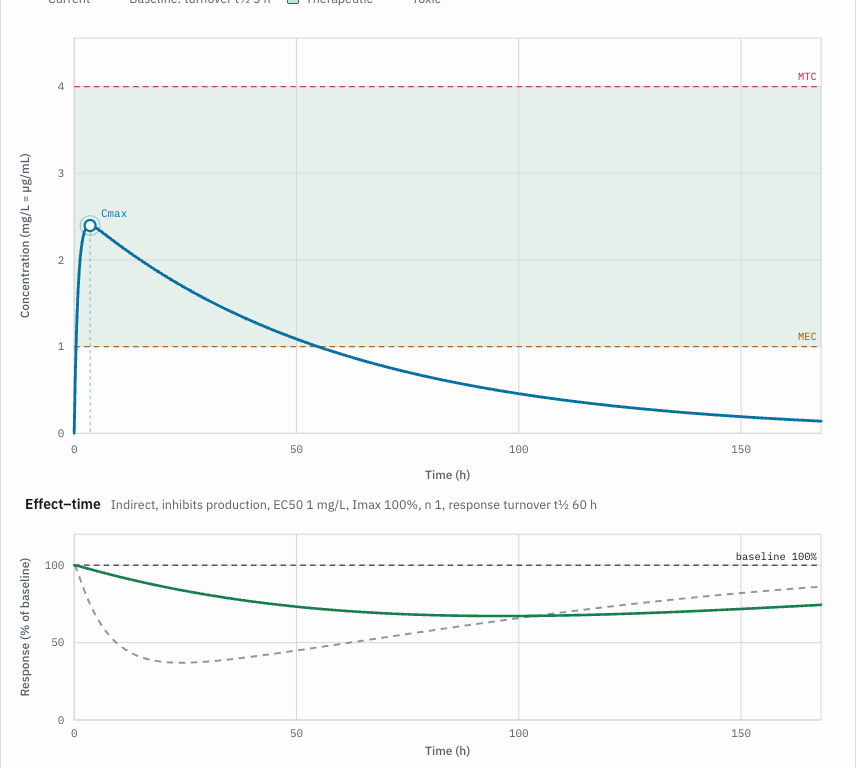
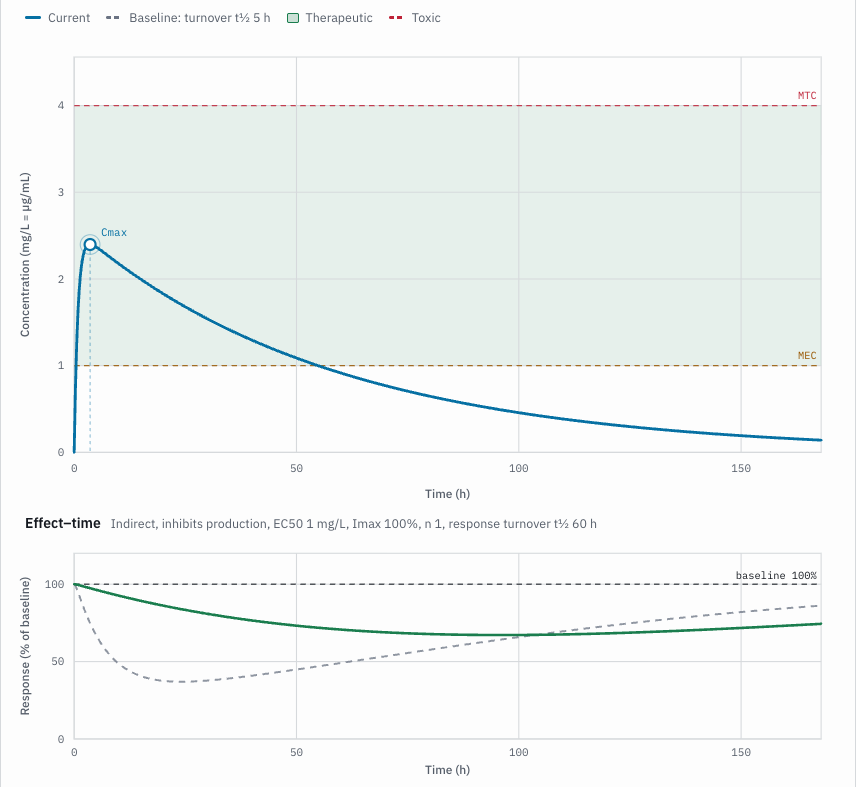
2.9.0: the glossary and the README catch up with 2.4-2.8
- Glossary 71: Terminal half-life, Post-distribution peak.
- README: images of the rebound after dialysis and of the effect's population
  band; every chart image retaken with its legend whole.
- 386 tests in 22 files.

diff --git a/index.html b/index.html
@@ -53,7 +53,7 @@
 <meta name="twitter:image" content="https://saifmaati.github.io/dose-curve/og-image.png">
 <script type="application/ld+json">
 {"@context":"https://schema.org","@type":"WebApplication","name":"DoseCurve","url":"https://saifmaati.github.io/dose-curve/",
- "description":"Interactive pharmacokinetics and PK/PD simulator for pharmacy education: regimens and custom schedules, a clinical patient with Cockcroft–Gault creatinine clearance, saturable kinetics, population variability, lessons, practice problems and graded clinical cases, validated against an independent solver.","softwareVersion":"2.8.0",
+ "description":"Interactive pharmacokinetics and PK/PD simulator for pharmacy education: regimens and custom schedules, a clinical patient with Cockcroft–Gault creatinine clearance, saturable kinetics, population variability, lessons, practice problems and graded clinical cases, validated against an independent solver.","softwareVersion":"2.9.0",
  "applicationCategory":"EducationalApplication","operatingSystem":"Any (web browser)","isAccessibleForFree":true,
  "offers":{"@type":"Offer","price":"0","priceCurrency":"USD"},"educationalUse":"learning pharmacokinetics","audience":{"@type":"EducationalAudience","educationalRole":"student"}}
 </script>
@@ -1801,7 +1801,7 @@
         <button class="foot-keys" id="keysFoot" aria-haspopup="dialog">Keyboard shortcuts</button>
         <a href="https://github.com/Saifmaati/dose-curve/issues/new?template=feedback.md" target="_blank" rel="noopener">Send feedback</a>
         <a href="https://github.com/Saifmaati/dose-curve/issues/new?template=bug_report.md" target="_blank" rel="noopener">Report an issue</a>
-        <span>Version 2.8.0, updated 1 October 2026</span>
+        <span>Version 2.9.0, updated 1 October 2026</span>
       </nav>
     </footer>
   </div>
@@ -4483,7 +4483,7 @@
   }));
   // The glossary under the lessons: each term with its symbol and unit, a definition, and the lesson that shows it.
   // The glossary's terms come from pk-glossary.js, loaded the first time the Lessons tab opens.
-  const GLOSS_SRC="pk-glossary.js?v=84bc063d00";
+  const GLOSS_SRC="pk-glossary.js?v=737ee5d15a";
   let glossLoading=null;
   function loadGlossary(){
     if(PK.GLOSSARY){ if(!byId("glossList").children.length) buildGlossary(); return; }

diff --git a/sw.js b/sw.js
@@ -6,11 +6,11 @@
 //   each page names them by hash, and older copies are dropped when a new one is saved.
 // - Nothing else is touched: other sites' requests and anything but GET pass straight through. No user data is
 //   stored or sent; scenarios and the library stay in the page's own storage, as before.
-const CACHE="dosecurve-v37";   // bumped at the end of every v1.0 phase, so a new release starts from a clean cache
+const CACHE="dosecurve-v38";   // bumped at the end of every v1.0 phase, so a new release starts from a clean cache
 // cases.js is named by its content hash, as index.html loads it; a test keeps the two in step
 const CORE=["./","./site.webmanifest","./favicon.svg","./favicon-32.png","./apple-touch-icon.png","./icon-192.png","./icon-512.png",
   "./cases.js?v=124759dd74",
-  "./pk-sens.js?v=b8300283e3","./pk-explain.js?v=4bbeb09405","./pk-tdm.js?v=faef16b95a","./pk-hd.js?v=adbb8a2d82","./pk-sources.js?v=6b5fbf7ff9","./pk-idr.js?v=f6002874d2","./pk-bayes.js?v=21a1045af5","./pk-lessons.js?v=a310a40fe4","./pk-practice.js?v=b7088f3efd","./pk-math.js?v=56c16f5396","./pk-glossary.js?v=84bc063d00","./pop-worker.js?v=67b2b76963","./validation.html","./educators.html","./stage.js?v=55e58173ac","./fonts/plex-sans-latin.woff2","./fonts/plex-mono-400-latin.woff2","./fonts/plex-mono-500-latin.woff2","./validation/reference-results.json?v=3e5c9bbc7c"];
+  "./pk-sens.js?v=b8300283e3","./pk-explain.js?v=4bbeb09405","./pk-tdm.js?v=faef16b95a","./pk-hd.js?v=adbb8a2d82","./pk-sources.js?v=6b5fbf7ff9","./pk-idr.js?v=f6002874d2","./pk-bayes.js?v=21a1045af5","./pk-lessons.js?v=a310a40fe4","./pk-practice.js?v=b7088f3efd","./pk-math.js?v=56c16f5396","./pk-glossary.js?v=737ee5d15a","./pop-worker.js?v=67b2b76963","./validation.html","./educators.html","./stage.js?v=55e58173ac","./fonts/plex-sans-latin.woff2","./fonts/plex-mono-400-latin.woff2","./fonts/plex-mono-500-latin.woff2","./validation/reference-results.json?v=3e5c9bbc7c"];
 const PAGE="./";   // the app page's saved copy lives under this key
 const PAGES=["validation.html"];   // other pages kept for offline use, each under its own address
 const FONT_HOSTS=["fonts.googleapis.com","fonts.gstatic.com"];

diff --git a/pk-glossary.js b/pk-glossary.js
@@ -117,6 +117,10 @@
      def:"A central volume (plasma and fast tissues) that exchanges drug with a peripheral one at k12 and k21. A bolus falls as A·e^(−αt) + B·e^(−βt): a fast distribution phase, then the slower terminal phase. Clearance and AUC are the same as with one compartment."},
     {term:"Distribution phase", sym:"t½ α", unit:"h", lesson:"twocmt",
      def:"The early, fast fall in level while drug moves from the central volume into the tissues. Levels drawn during it run higher than the terminal phase would predict."},
+    {term:"Terminal half-life", sym:"t½ β", unit:"h", lesson:"twocmt",
+     def:"The half-life of the slow, final phase of the curve, once distribution is over: ln 2 / β with two compartments. It sets how long the drug takes to reach steady state and to wash out, and it is longer than the half-life of elimination from the central compartment alone."},
+    {term:"Post-distribution peak", sym:"", unit:"", lesson:"twocmt",
+     def:"A peak level drawn once distribution is over, so the level is on its terminal slope rather than still falling fast. Under the steady-state chart, When to sample gives the time distribution is 90% complete in the model; the vancomycin guideline's two-level approach draws such a peak 1–2 hours after the infusion (Rybak et al., 2020)."},
     {term:"Time above the MIC", sym:"fT>MIC", unit:"%", lesson:"tmic",
      def:"The share of a dosing interval that the unbound level stays above the minimum inhibitory concentration. For β-lactams such as meropenem it is the measure that tracks efficacy most closely, and a longer infusion raises it without changing the AUC."},
     {term:"Sensitivity analysis", sym:"±20%", unit:"%", lesson:"cl",

diff --git a/educators.html b/educators.html
@@ -122,7 +122,7 @@
 
 <h2>Feedback</h2>
 <p>An instructor's view helps most: what would make DoseCurve more useful in your course, or a case or worksheet you would like built. Use the <a href="https://github.com/Saifmaati/dose-curve/issues/new?template=educator.md">educator form</a> on GitHub.</p>
-<p class="muted">DoseCurve 2.8.0, MIT license. <a href="https://github.com/Saifmaati/dose-curve">Source on GitHub</a>; <a href="validation.html">validation</a>.</p>
+<p class="muted">DoseCurve 2.9.0, MIT license. <a href="https://github.com/Saifmaati/dose-curve">Source on GitHub</a>; <a href="validation.html">validation</a>.</p>
 </main>
 </body>
 </html>

diff --git a/README.md b/README.md
@@ -41,6 +41,10 @@ Since 2.0 the curve also lives as a 3D ribbon on a stage behind the page, drawn 
 
 ![Gentamicin on hemodialysis: 120 mg after each 8-hour session, each session (shaded) halving the level, with the clearance on and off dialysis](docs/img/hemodialysis.png)
 
+![A two-compartment drug on dialysis: a 4-hour session (shaded) takes the level from 11.8 to 5.5 mg/L, then it rebounds to 6.3 mg/L as drug returns from the tissues](docs/img/hd-rebound.png)
+
+![Population mode with the effect charts: 200 virtual patients' levels and their effect, each as a 5th–95th percentile band; near the peaks the effect band narrows while the level band stays wide](docs/img/population-effect.png)
+
 **Explain**
 - Set a baseline, change anything, and **What changed** explains it with the model's numbers: "CrCl fell from 73 to 41 mL/min, so the clearance of a drug that is 90% renally excreted fell 38%; the half-life rose from 3.9 h to 6.2 h; the steady-state trough rose from 2.2 to 4.7 mg/L."
 - Compare scenarios A and B side by side, with "Vary only" to change one thing at a time, and 28 one-click comparisons.
@@ -55,7 +59,7 @@ Since 2.0 the curve also lives as a 3D ribbon on a stage behind the page, drawn 
 **Teach and practise**
 - **36 guided lessons** that ask for a prediction first and end with a challenge the app checks live.
 - **16 clinical cases** (gentamicin conventional, once daily, on hemodialysis, individualized from two levels and from a Bayesian estimate, vancomycin to an AUC24 target, from two measured levels and from a Bayesian estimate, meropenem, piperacillin-tazobactam and levetiracetam by their labels' renal tables, phenytoin with low albumin, digoxin, theophylline in a smoker, lithium, a late-dose question), one of them the case of the day, the same for everyone on a given date. The model grades a proposed regimen at steady state, gives rule-based hints, re-grades it rounded to the forms available, and walks through the textbook route.
-- **42 kinds of generated practice problems** in seven topics with worked solutions, printable worksheets with answer keys, "Fit the data" (including a two-compartment curve to strip by the method of residuals) and "Hit the window" exercises, and a 69-term glossary.
+- **42 kinds of generated practice problems** in seven topics with worked solutions, printable worksheets with answer keys, "Fit the data" (including a two-compartment curve to strip by the method of residuals) and "Hit the window" exercises, and a 71-term glossary.
 - **For instructors:** write a case (patient, drug, regimen choices and target) and share it as a link, checked for a solution before the link is made and marked as an unreviewed community case; put cases and worksheets in one assignment link; and verify the completion codes (HMAC-SHA256 with a class key) students make at the end. Nothing is sent anywhere.
 - Links for everything (a scenario, a lesson, a problem, a worksheet, a case, an assignment), embed code for course pages, a light theme for projectors, printable handouts, and offline use after one visit.
 
@@ -156,7 +160,7 @@ Share links carry every setting in the URL itself and are written at the lowest 
 
 See [`CITATION.cff`](CITATION.cff) (GitHub's "Cite this repository" button uses it):
 
-> Maati S. DoseCurve: an interactive pharmacokinetics and PK/PD simulator for pharmacy education. Version 2.8.0. 2026. https://github.com/Saifmaati/dose-curve
+> Maati S. DoseCurve: an interactive pharmacokinetics and PK/PD simulator for pharmacy education. Version 2.9.0. 2026. https://github.com/Saifmaati/dose-curve
 
 ## Contributing
 

diff --git a/docs/NEEDS-SAIF.md b/docs/NEEDS-SAIF.md
@@ -16,7 +16,8 @@ Merging is blocked for Claude Code by its auto-mode safety check ("Merge Without
 | 2.1.0 | https://github.com/Saifmaati/dose-curve/pull/22 | 2.2.0 | https://github.com/Saifmaati/dose-curve/pull/23 |
 | 2.3.0 | https://github.com/Saifmaati/dose-curve/pull/24 | 2.4.0 | https://github.com/Saifmaati/dose-curve/pull/25 |
 | 2.5.0 | https://github.com/Saifmaati/dose-curve/pull/26 | 2.6.0 | https://github.com/Saifmaati/dose-curve/pull/27 |
-| 2.7.0 | https://github.com/Saifmaati/dose-curve/pull/28 | 2.8.0 | the pull request from branch `v2.8.0` |
+| 2.7.0 | https://github.com/Saifmaati/dose-curve/pull/28 | 2.8.0 | https://github.com/Saifmaati/dose-curve/pull/29 |
+| 2.9.0 | the pull request from branch `v2.9.0` | | |
 
 Each one contains the ones before it. Merging them one by one, oldest first, gives each release its own merge commit to tag:
 
@@ -24,14 +25,14 @@ Each one contains the ones before it. Merging them one by one, oldest first, giv
 for n in 12 13 14 15 16 17 18 19; do /Users/saifmaati/.local/bin/gh pr merge $n --repo Saifmaati/dose-curve --merge; done
 ```
 
-Then merge 1.17.1 (#20), 2.0.0 (#21), 2.1.0 (#22), 2.2.0 (#23), 2.3.0 (#24), 2.4.0 (#25), 2.5.0 (#26), 2.6.0 (#27), 2.7.0 (#28) and 2.8.0 the same way. Each contains the ones before it, so merging only the last one also works, at the cost of one merge commit for all of them. Afterwards Claude Code tags each merge commit, checks the live site byte for byte and runs Lighthouse. To let it merge after green CI in future runs, allow `Bash(/Users/saifmaati/.local/bin/gh pr merge:*)` in `~/.claude/settings.json`.
+Then merge 1.17.1 (#20), 2.0.0 (#21), 2.1.0 (#22), 2.2.0 (#23), 2.3.0 (#24), 2.4.0 (#25), 2.5.0 (#26), 2.6.0 (#27), 2.7.0 (#28), 2.8.0 (#29) and 2.9.0 the same way. Each contains the ones before it, so merging only the last one also works, at the cost of one merge commit for all of them. Afterwards Claude Code tags each merge commit, checks the live site byte for byte and runs Lighthouse. To let it merge after green CI in future runs, allow `Bash(/Users/saifmaati/.local/bin/gh pr merge:*)` in `~/.claude/settings.json`.
 
 ## 2. Create the GitHub Releases
 
 Tags `v1.0.0` to `v1.9.0` are pushed; v1.10.0 onward are tagged as they merge. Creating the Releases is blocked for Claude Code ("Create Public Surface"), and Zenodo archives a release, not a tag. From the repository folder, oldest first, each with its CHANGELOG section as the notes:
 
 ```bash
-for v in 1.0.0 1.1.0 1.2.0 1.3.0 1.4.0 1.4.1 1.5.0 1.6.0 1.7.0 1.8.0 1.9.0 1.10.0 1.11.0 1.12.0 1.13.0 1.14.0 1.15.0 1.16.0 1.17.0 1.17.1 2.0.0 2.1.0 2.2.0 2.3.0 2.4.0 2.5.0 2.6.0 2.7.0 2.8.0; do awk -v H="## $v " 'index($0,H)==1{f=1;next} /^## /{f=0} f' CHANGELOG.md > /tmp/dc-notes-$v.md; gh release create v$v --verify-tag --title "DoseCurve $v" --notes-file /tmp/dc-notes-$v.md; done
+for v in 1.0.0 1.1.0 1.2.0 1.3.0 1.4.0 1.4.1 1.5.0 1.6.0 1.7.0 1.8.0 1.9.0 1.10.0 1.11.0 1.12.0 1.13.0 1.14.0 1.15.0 1.16.0 1.17.0 1.17.1 2.0.0 2.1.0 2.2.0 2.3.0 2.4.0 2.5.0 2.6.0 2.7.0 2.8.0 2.9.0; do awk -v H="## $v " 'index($0,H)==1{f=1;next} /^## /{f=0} f' CHANGELOG.md > /tmp/dc-notes-$v.md; gh release create v$v --verify-tag --title "DoseCurve $v" --notes-file /tmp/dc-notes-$v.md; done
 ```
 
 To let Claude Code do it in future runs, allow `Bash(/Users/saifmaati/.local/bin/gh release create:*)`.

diff --git a/CHANGELOG.md b/CHANGELOG.md
@@ -2,6 +2,15 @@
 
 What changed in DoseCurve, newest first. Every release keeps older share links working and the default scenario's numbers unchanged: Cmax 9.3 mg/L, AUC 74.2 mg·h/L, 48% of the window in range.
 
+## 2.9.0 (2026-10-01)
+
+The glossary and the README catch up with 2.4–2.8.
+
+- **Two glossary terms** (71): *Terminal half-life* (ln 2 / β, longer than the central compartment's own) and *Post-distribution peak* (drawn once distribution is over; When to sample gives the model's time, and the vancomycin guideline's two-level approach draws it 1–2 hours after the infusion, Rybak et al. 2020).
+- **README images:** two new ones, the rebound after a dialysis session and population mode's band on the effect chart. Every chart image is retaken so its legend shows whole; until now each was clipped at the top.
+
+386 tests in 22 files.
+
 ## 2.8.0 (2026-10-01)
 
 Every lesson link scores 89 or more on mobile.
@@ -20,6 +29,7 @@ Hemodialysis with two compartments, and the rebound after each session.
 - **A new lesson, "Rebound after dialysis"** (36 lessons). It compares one compartment with two at the same clearance and total volume. The two-compartment level rises 14% in the 1.6 hours after the session, while the one-compartment level keeps falling. The session also removes less with two compartments (245 mg against 306), because the dialyzer only reaches the blood. The challenge: slow the return from the tissues until the rebound gives back a quarter of the fall. The glossary's "Post-dialysis rebound" now links to it.
 - **Validation:** 3 two-compartment dialysis scenarios added to the SciPy reference (11 in all; 718 comparisons on the validation page). The existing 8 changed by at most 2 parts in 10¹² with the solver's extra state.
 - **Links v12.** A scenario with both dialysis and two compartments makes a v12 link. An older link with both opens as it always did, with dialysis off, because before 2.7 it did nothing with two compartments.
+- The teaching guide's list of one-click comparisons is regenerated from the app (28; it said 18).
 - **Faster dialysis scenarios:** a level now takes a fifth of the time, since each scenario remembers its course while its settings are unchanged. The rebound lesson's link scores 89 on mobile and the dialysis lesson's 86 (83 with a layout shift on 2.4.0).
 - **"What changed" corrections.** It said the total AUC stays the same when only the compartments, the volume or the absorption rate change. With dialysis that's no longer true, because what a session removes follows the level. It now gives the actual difference, for example 9% higher with two compartments.
 

diff --git a/docs/teaching-guide.md b/docs/teaching-guide.md
@@ -92,7 +92,7 @@ Each lesson opens a ready-made scenario next to a baseline. It sets a goal and a
 
 To assign a lesson, open it and use **Copy link**. The link opens that lesson for anyone. The lessons' texts load with the Lessons tab or the first lesson a student opens, so the simulator itself appears sooner; after one visit they are saved for offline use with the rest of the app.
 
-The **glossary** under the lessons defines 69 terms, each with its symbol, unit and formula, and links to the lesson that shows it. It includes creatinine clearance, the Cockcroft–Gault equation, fe, ideal and adjusted body weight, and the salt factor. It also notes why dosing references state renal adjustments as Cockcroft–Gault CrCl in mL/min, while laboratories report eGFR per 1.73 m².
+The **glossary** under the lessons defines 71 terms, each with its symbol, unit and formula, and links to the lesson that shows it. It includes creatinine clearance, the Cockcroft–Gault equation, fe, ideal and adjusted body weight, and the salt factor. It also notes why dosing references state renal adjustments as Cockcroft–Gault CrCl in mL/min, while laboratories report eGFR per 1.73 m².
 
 ## Clinical cases (16)
 

diff --git a/docs/BUILD_REPORT.md b/docs/BUILD_REPORT.md
@@ -474,3 +474,12 @@ All 36 lesson links CLS 0 at 390 and 1440. 385 tests in 22 files.
 | Remembered window statistics, readouts and profiles | any lesson link | `pk-engine.test.js` (copies; a value changed in place gives the new result; the window is part of the key); Lighthouse on the lesson links |
 
 Lighthouse on mobile: all 36 lesson links measured on 2.7.0 (87–95, the Bayesian lesson 78); on 2.8.0 the seven lowest 89–95, the Bayesian lesson 89; root 99, validation 99. CLS 0 on all 108 links at 390. 386 tests in 22 files.
+
+## 37. 2.9.0 (glossary and README catch up)
+
+| Feature | Where to see it | Checked by |
+| --- | --- | --- |
+| Glossary: Terminal half-life, Post-distribution peak (71 terms) | Lessons, glossary | the glossary tests (lesson links, wording) |
+| README: rebound and effect-band images; chart images retaken with whole legends | README | `release.test.js` (every image the README names exists) |
+
+386 tests in 22 files.

diff --git a/docs/BUILD_LOG.md b/docs/BUILD_LOG.md
@@ -91,3 +91,4 @@ One line per task. Status is done, deferred or dropped. Times are the commit tim
 | 2026-10-01 02:22 | 2.6.0 | Population band on the effect chart (direct, delayed, indirect), spread sentence, faster indirect-response solver | done | (this release) |
 | 2026-10-01 02:53 | 2.7.0 | Hemodialysis with two compartments (exact), the rebound, lesson Rebound after dialysis (36 lessons), links v12, 3 SciPy dialysis scenarios (718 comparisons), What changed AUC sentences with dialysis | done | (this release) |
 | 2026-10-01 03:05 | 2.8.0 | Engine remembers window statistics, readouts and profiles; Bayesian lesson link 78 to 89, every lesson link 89+ on mobile | done | (this release) |
+| 2026-10-01 03:10 | 2.9.0 | Glossary 71 (terminal half-life, post-distribution peak); README rebound and effect-band images; chart images retaken with whole legends | done | (this release) |
